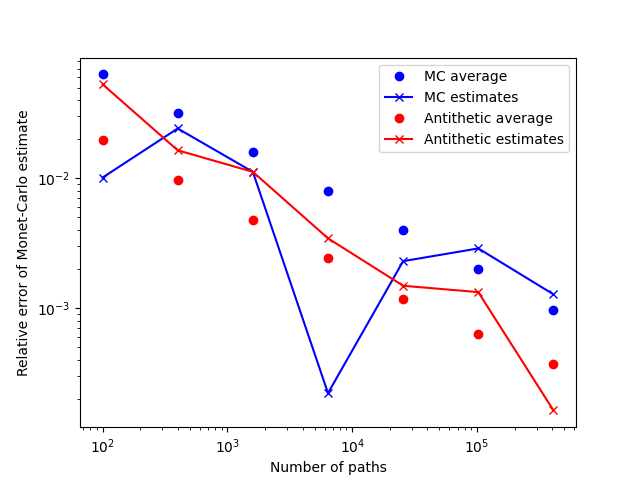
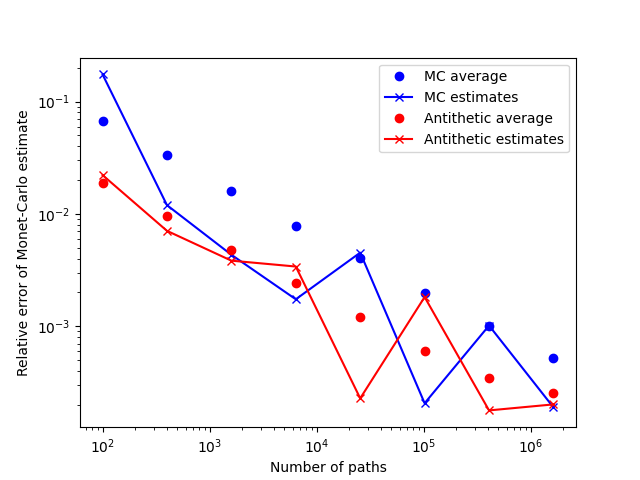
Documentation of Monte-Carlo convergence tests.

diff --git a/docs/appendix_hull_white_1f.tex b/docs/appendix_hull_white_1f.tex
@@ -5,7 +5,7 @@ dr_t = \kappa_t \left( \theta_t - r_t \right) dt + \sigma_t dW_t.
 \end{equation}
 where the SDE parameters have the same interpretation as in the Vasicek model, and, again, $W_t$ denotes a one-dimensional Wiener process under the risk-neutral $Q$-measure.
 
-For the Hull-White model to be consistent with the yield curve at time zero, $\theta_t$ is given by \cite{Andersen2010}
+For the Hull-White model to be consistent with the initial yield curve, $\theta_t$ is given by \cite{Andersen2010}
 \begin{equation}
 \theta_t = \frac{1}{\kappa_t} \frac{\partial f(0,t)}{\partial t} + f(0,t) + \frac{1}{\kappa_t} \int_0^t \e^{-2\int_u^t \kappa_v dv} \sigma_u^2 du.
 \end{equation}
@@ -17,8 +17,10 @@ dx_t = \left( y_t - \kappa_t x_t \right) dt + \sigma_t dW_t, \;\;\; x_0 = 0,
 \end{equation}
 where
 \begin{equation}
-y_t = \int_0^t \e^{-2\int_u^t \kappa_v dv} \sigma_u^2 du.
+y_t = \int_0^t \e^{-2\int_u^t \kappa_v dv} \sigma_u^2 du,
 \end{equation}
+thus, the initial yield curve is used explicitly in the simulation of the pseudo 
+short rate, and any issues with yield curve interpolation are avoided.
 
 The SDE in Eq.~(\ref{eq:HullWhiteSDEx}) can be solved analytically by introducing the function
 \begin{equation}
@@ -41,15 +43,15 @@ x_{t_2} = x_{t_1} \e^{-\int_{t_1}^{t_2} \kappa_u du}  + \int_{t_1}^{t_2} y_t \e^
 
 As for the Vasicek model, the pseudo short rate process is Gaussian with conditional mean
 \begin{equation}
-\E \left[ x_{t_2} | x_{t_1} \right] = x_{t_1} \e^{-\int_{t_1}^{t_2} \kappa_u du}  + \int_{t_1}^{t_2} y_t \e^{-\int_t^{t_2} \kappa_u du} dt,
+\E_{t_1}\! \left[ x_{t_2} \right] = x_{t_1} \e^{-\int_{t_1}^{t_2} \kappa_u du}  + \int_{t_1}^{t_2} y_t \e^{-\int_t^{t_2} \kappa_u du} dt,
 \end{equation}
 and, using the It\^{o} isometry, the conditional variance of the process becomes
 \begin{eqnarray}
-\Var \left[ x_{t_2} | x_{t_1} \right] &=& \E \left[ \left( \int_{t_1}^{t_2} \sigma_t \e^{-\int_t^{t_2} \kappa_u du} dW_t \right)^2 \right] \\
+\Var_{t_1}\! \left[ x_{t_2} \right] &=& \E_{t_1}\! \left[ \left( \int_{t_1}^{t_2} \sigma_t \e^{-\int_t^{t_2} \kappa_u du} dW_t \right)^2 \right] \\
 &=& \int_{t_1}^{t_2} \sigma_t^2 \e^{-2\int_t^{t_2} \kappa_u du} dt.
 \end{eqnarray}
 
-The corresponding stochastic pseudo discount factor is written as
+The corresponding pseudo discount factor is written as
 \begin{equation}
 D_{t} = \e^{I_t},
 \end{equation}
@@ -57,21 +59,38 @@ where
 \begin{eqnarray}
 I_t &=& -\int_0^t x_u du \\
 &=& - x_{0} \int_0^t \e^{-\int_{0}^{u} \kappa_v dv} du - \int_0^t\int_{0}^{u} y_v \e^{-\int_v^{u} \kappa_s ds} dv du \\
-&& - \int_0^t \int_{0}^{u} \sigma_v \e^{-\int_v^{u} \kappa_s ds} dW_v du.
+&& - \int_0^t \int_{v}^{t} \sigma_v \e^{-\int_v^{u} \kappa_s ds} du dW_v,
 \end{eqnarray}
+where the order of integration has been changed in the last term.
 
 The discount factor process is likewise Gaussian with conditional mean
 \begin{equation}
-\E \left[ I_{t_{2}} | I_{t_1}, r_{t_1} \right] = I_{t_1} - x_{t_1} \int_{t_1}^{t_2} \e^{-\int_{t_1}^{u} \kappa_v dv} du - \int_{t_1}^{t_2} \int_{t_1}^{u} y_v \e^{-\int_v^{u} \kappa_s ds} dv du,
+\E_{t_1}\! \left[ I_{t_{2}} \right] = I_{t_1} - x_{t_1} \int_{t_1}^{t_2} \e^{-\int_{t_1}^{u} \kappa_v dv} du - \int_{t_1}^{t_2} \int_{t_1}^{u} y_v \e^{-\int_v^{u} \kappa_s ds} dv du,
 \end{equation}
 and, using the It\^{o} isometry, the conditional variance becomes
 \begin{eqnarray}
-\Var \left[ I_{t_{2}} | I_{t_1}, r_{t_1} \right] &=& \E \left[ \left( \int_0^t \int_{0}^{u} \sigma_v \e^{-\int_v^{u} \kappa_s ds} dW_v du \right)^2 \right].
+\Var_{t_1}\! \left[ I_{t_{2}} \right] &=& \E_{t_1}\! \left[ \left( \int_{t_1}^{t_2} \int_{v}^{t_2} \sigma_v \e^{-\int_v^{u} \kappa_s ds} du dW_v \right)^2 \right] \\
+&=& \int_{t_1}^{t_2} \sigma_v^2 \left( \int_{v}^{t_2} \e^{-\int_v^{u} \kappa_s ds} du \right)^2 dv.
 \end{eqnarray}
+
+\textcolor{red}{Compare (A.50) with Andersen \& Piterbarg!}
+
+Again, we can write both $x_t$ and $I_t$ as a sum of a deterministic term ($D$) and a stochastic term ($S$)
+\begin{eqnarray}
+x_t &=& D_{x_t} + S_{x_t} \\
+I_t &=& D_{I_t} + S_{I_t},
+\end{eqnarray}
+such that the covariance of $x_t$ and $I_t$ becomes
+\begin{eqnarray}
+\Cov_{t_1}\! \left[ x_{t_2}, I_{t_2} \right] &=& \E_{t_1}\! \left[ S_{x_{t_2}} S_{I_{t_2}} \right] \\
+&=& - \int_{t_1}^{t_2} \int_{t_1}^u \sigma_s^2 \e^{-\int_s^{u} \kappa_v dv} \e^{-\int_s^{t_2} \kappa_v dv} ds du.
+\end{eqnarray}
+
+\textcolor{red}{Derive (A.54), and compare with Andersen \& Piterbarg!}
 
 \subsection{Transformation from pseudo representation}
 
-Zero-coupon bond prices and instantaneous forward rates are related by
+The initial discount curve and instantaneous forward rate curve are related by
 \begin{equation}
 P(0,t) = \e^{- \int_0^t f(0,u) du}.
 \end{equation}
@@ -86,7 +105,8 @@ which implies that
 \E \left[ \e^{- \int_0^t x_u du} \right] = 1.
 \end{equation}
 
-For a given scenario, i.e., $r_t(\omega) = x_t (\omega) + f(0,t)$, we get
+For a given scenario, i.e., $r_t(\omega) = x_t (\omega) + f(0,t)$, we get the 
+time $t$ stochastic discount factor as
 \begin{equation}
 \e^{- \int_0^t r_u (\omega) du} = P(0,t) \e^{- \int_0^t x_u (\omega) du}.
 \end{equation}

diff --git a/docs/appendix_vasicek.tex b/docs/appendix_vasicek.tex
@@ -28,11 +28,11 @@ r_{t_2} = \theta + \left( r_{t_1} - \theta \right) \e^{-\kappa \Delta t} + \sigm
 
 The short rate process is clearly Gaussian with conditional mean (the expectation operator is defined with respect to the $Q$-measure)
 \begin{equation}
-\E \left[ r_{t_2} | r_{t_1} \right] = \theta + \left( r_{t_1} - \theta \right) \e^{-\kappa \Delta t},
+\E_{t_1}\! \left[ r_{t_2} \right] = \theta + \left( r_{t_1} - \theta \right) \e^{-\kappa \Delta t},
 \end{equation}
 and, using the It\^{o} isometry, the conditional variance of the process becomes
 \begin{eqnarray}
-\Var \left[ r_{t_2} | r_{t_1} \right] &=& \sigma^2 \E \left[ \left( \int_{t_1}^{t_2} \e^{-\kappa \left(t_2 - t\right)} dW_t \right)^2 \right] \\
+\Var_{t_1}\! \left[ r_{t_2} \right] &=& \sigma^2 \E \left[ \left( \int_{t_1}^{t_2} \e^{-\kappa \left(t_2 - t\right)} dW_t \right)^2 \right] \\
 &=& \frac{\sigma^2}{2 \kappa} \left( 1 - \e^{-2 \kappa \Delta t}\right).
 \end{eqnarray}
 
@@ -49,12 +49,12 @@ I_t &=& -\int_0^t r_u du \\
 
 The stochastic discount factor process is likewise Gaussian with conditional mean
 \begin{equation}
-\E \left[ I_{t_{2}} | I_{t_1}, r_{t_1} \right] = I_{t_1} - \theta \Delta t 
+\E_{t_1}\! \left[ I_{t_{2}} \right] = I_{t_1} - \theta \Delta t 
 - \frac{r_{t_1} - \theta}{\kappa} \left( 1 - \e^{-\kappa \Delta t} \right),
 \end{equation}
 and, using the It\^{o} isometry, the conditional variance becomes
 \begin{eqnarray}
-\Var \left[ I_{t_{2}} | I_{t_1}, r_{t_1} \right] &=& \sigma^2 \E \left[ \left( \int_{t_1}^{t_2} \int_v^{t_2} \e^{-\kappa \left(u - v\right)} du dW_v \right)^2 \right] \\
+\Var_{t_1}\! \left[ I_{t_{2}} \right] &=& \sigma^2 \E \left[ \left( \int_{t_1}^{t_2} \int_v^{t_2} \e^{-\kappa \left(u - v\right)} du dW_v \right)^2 \right] \\
 &=& \frac{\sigma^2}{2 \kappa^3} \left( 4 \e^{-\kappa \Delta t} - \e^{-2\kappa \Delta t} + 2 \kappa \Delta t - 3 \right).
 \end{eqnarray}
 
@@ -70,17 +70,17 @@ such that the covariance of $r_t$ and $I_t$ is expressed as
 &=& \E \left[ S_{r_t} S_{I_t} \right].
 \end{eqnarray}
 
-Using standard results for stochastic integrals, the covariance becomes
+Using standard results for stochastic integrals, the conditional covariance becomes
 \begin{eqnarray}
-\Cov \left[ r_t, I_t \right] &=& - \sigma^2 \E \left[ \int_0^t \e^{-\kappa (t - u)} dW_u \int_0^t \int_v^t \e^{-\kappa(u-v)} du dW_v \right] \\
-&=& -\sigma^2 \int_0^t \E \left[ \e^{-\kappa(t-v)} \int_v^t \e^{-\kappa(u-v)} du \right] dv \\
-&=& \frac{\sigma^2}{2 \kappa^2} \left( 2 \e^{-\kappa t} - \e^{-2\kappa t} - 1 \right).
+\Cov_{t_1}\! \left[ r_{t_2}, I_{t_2} \right] &=& - \sigma^2 \E_{t_1}\! \left[ \int_{t_1}^{t_2} \e^{-\kappa (t_2 - u)} dW_u \int_{t_1}^{t_2} \int_v^{t_2} \e^{-\kappa(u-v)} du dW_v \right] \\
+&=& -\sigma^2 \int_{t_1}^{t_2} \E \left[ \e^{-\kappa(t_2-v)} \int_v^{t_2} \e^{-\kappa(u-v)} du \right] dv \\
+&=& \frac{\sigma^2}{2 \kappa^2} \left( 2 \e^{-\kappa \Delta t} - \e^{-2\kappa \Delta t} - 1 \right).
 \end{eqnarray}
 
 The price of a $T$-maturity zero-coupon bond at time $t$ is given by
 \begin{eqnarray}
-P(t,T) &=& \E \left[ \text{e}^{I_T - I_t} \right] \\
-&=& \exp \left( \E \left[ I_T - I_t \right] + \frac{1}{2} \Var \left[ I_T - I_t \right] \right) \\
+P(t,T) &=& \E_t\! \left[ \text{e}^{I_T - I_t} \right] \\
+&=& \exp \left( \E_t\! \left[ I_T - I_t \right] + \frac{1}{2} \Var_t\! \left[ I_T - I_t \right] \right) \\
 &=& \exp \left( A(t,T) - B(t,T) r_t \right) ,
 \end{eqnarray}
 where

diff --git a/docs/introduction.tex b/docs/introduction.tex
@@ -2,15 +2,26 @@
 
 \section{Definitions}
 
-The price of a zero-coupon bond maturing at time $t$, $P(0,t)$, is related to the continuously compounded yield
+$P(t,T)$ denotes the price at time $t$ of a zero-coupon bond maturing at time $T$. 
+For a fixed $t$, $P(t,T)$ is referred to as the term structure of discount bonds 
+at time $t$, or the discount curve at time $t$.
+The discount curve is related to the continuously compounded yield curve $y$ by
 \begin{equation}
-P(0,t) = \e^{-y(0,0,t) t}.
+P(t,T) = \e^{-y(t,t,T) (T - t)}.
 \end{equation}
 
+Likewise the discount curve is related to the instantaneous forward rate $f$
 \begin{equation}
-P(0,t) = \exp \left( -\int_0^t f(0,u) du \right).
+P(t,T) = \exp \left( -\int_t^T f(t,u) du \right),
 \end{equation}
-Thus
-\begin{equation}
-f(t,T) = - \frac{\partial \ln P(t,T)}{\partial T}.
-\end{equation}
+hence
+\begin{eqnarray}
+f(t,T) &=& - \frac{\partial \ln P(t,T)}{\partial T} \\
+&=& y(t,t,T) + \frac{\partial y(t,t,T)}{\partial T} (T - t).
+\end{eqnarray}
+
+\begin{figure}
+\includegraphics[scale=0.7]{figures/swap_curve.png}
+\caption{Initial yield curve, instantaneous forward rate curve, and 
+discount curve.}
+\end{figure}

diff --git a/docs/appendix_convergence.tex b/docs/appendix_convergence.tex
@@ -9,7 +9,7 @@
 \begin{figure}
 \centering
 \includegraphics[scale=0.7]{figures/hw_1f_zero_coupon_bond/mc_error_ZCBond.png}
-%\includegraphics[scale=0.7]{figures/hw_1f_swap/mc_error_Swap.png}
+\includegraphics[scale=0.7]{figures/hw_1f_swap/mc_error_Swap.png}
 \caption{Average relative error of Monte-Carlo estimate of zero-coupon bond (top) and swap (bottom) price as a function of number of paths per estimate. The errors are averaged over 1000 simulations. Examples of single Monte-Carlo estimates are shown with crosses...}
 \end{figure}
 

diff --git a/docs/main.tex b/docs/main.tex
@@ -2,6 +2,7 @@
 
 \usepackage{amsfonts, amsmath, amssymb}
 \usepackage{mathtools}
+\usepackage{color}
 
 \newcommand{\E}{\mathrm{E}}
 \newcommand{\Var}{\mathrm{Var}}
@@ -12,14 +13,14 @@
 
 \begin{document}
 
-\maketitle
+%\maketitle
 
-\tableofcontents
+%\tableofcontents
 
 
-\input{introduction}
+%\input{introduction}
 
-\input{hull_white_1f}
+%\input{hull_white_1f}
 
 
 \appendix
